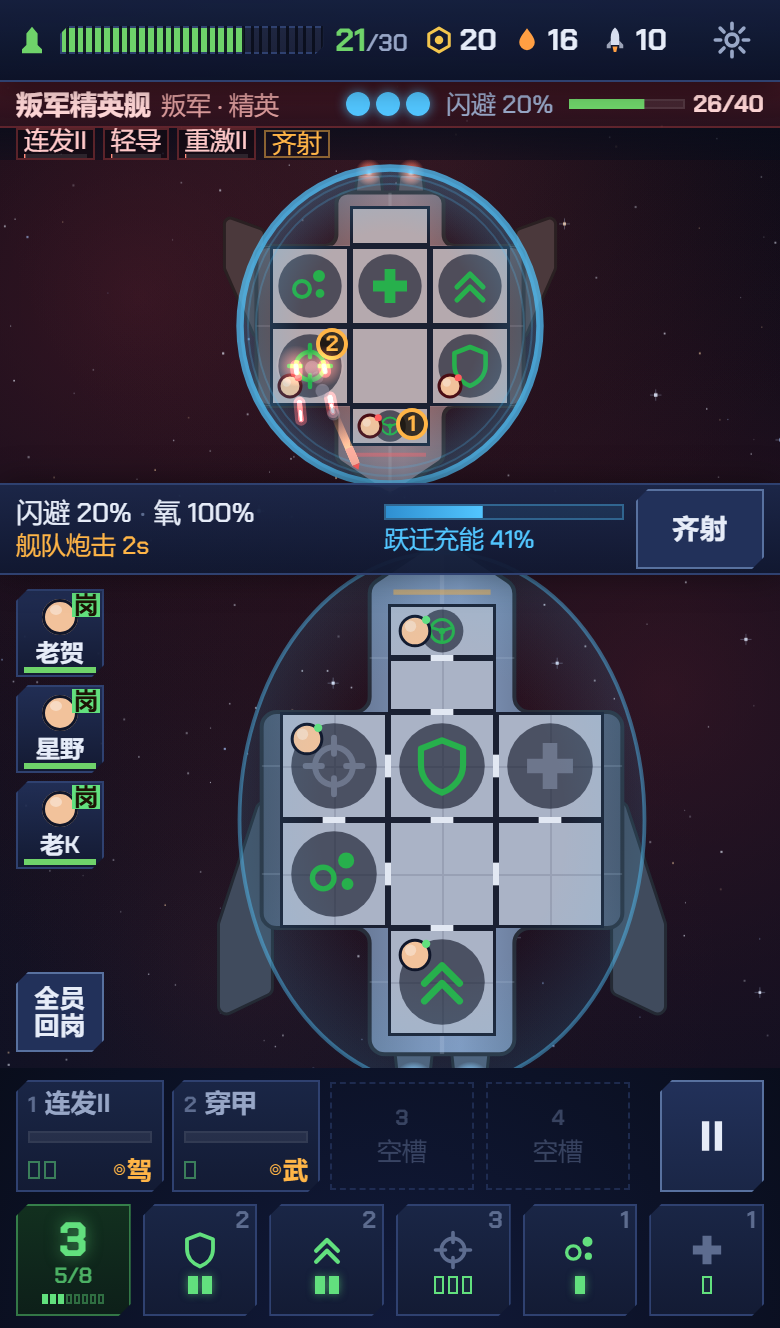
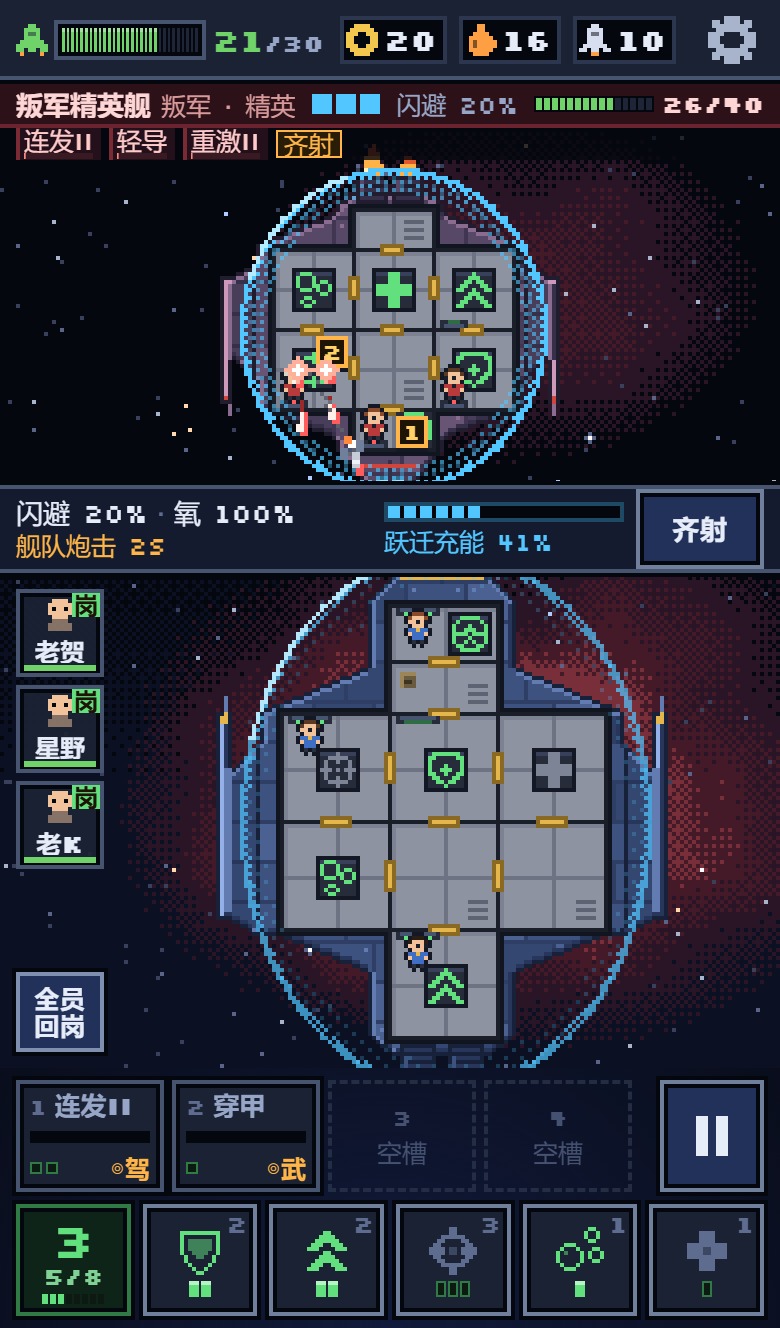
docs: 重新渲染像素风封面（16:9）与游戏截图
- tools/cover.html 改用游戏自身的像素渲染器绘制 1920x1080 封面
- 截图工具关闭新手提示、改用 Silkscreen 字体
- 删除旧版插画封面 cover.png / cover-art.png

diff --git a/tools/cover.html b/tools/cover.html
@@ -4,163 +4,179 @@
 <meta charset="utf-8">
 <link rel="preconnect" href="https://fonts.googleapis.com">
 <link rel="preconnect" href="https://fonts.gstatic.com" crossorigin>
-<link rel="stylesheet" href="https://fonts.googleapis.com/css2?family=Chakra+Petch:wght@500;600;700&family=ZCOOL+QingKe+HuangYou&display=swap">
+<link rel="stylesheet" href="https://fonts.googleapis.com/css2?family=Silkscreen:wght@400;700&family=ZCOOL+QingKe+HuangYou&display=swap">
 <style>
-  :root {
-    --bg: #090d1b;
-    --accent: #ffb547;
-    --shield: #52c6ff;
-    --text-dim: #97a6c6;
-    --font-ui: 'Chakra Petch', 'PingFang SC', 'Microsoft YaHei', system-ui, sans-serif;
-    --font-title: 'ZCOOL QingKe HuangYou', 'Chakra Petch', 'Microsoft YaHei', sans-serif;
-  }
+  /* Dev-only 16:9 cover (1920x1080), drawn with the game's own pixel renderer.
+     Screenshot (serve the project first: node serve.mjs):
+       chrome --headless=new --window-size=1920,1080 --hide-scrollbars --virtual-time-budget=8000 \
+              --screenshot=assets/banner.png "http://localhost:5173/tools/cover.html" */
   * { margin: 0; padding: 0; box-sizing: border-box; }
-  html, body { background: #000; }
-  body { display: flex; font-family: var(--font-ui); -webkit-font-smoothing: antialiased; }
-
-  .poster {
-    position: relative; width: 1024px; height: 1536px; overflow: hidden;
-    background: var(--bg); isolation: isolate;
+  html, body { width: 1920px; height: 1080px; overflow: hidden; background: #05070e; }
+  #stage { position: relative; width: 1920px; height: 1080px; overflow: hidden; }
+  canvas#bg { position: absolute; inset: 0; width: 1920px; height: 1080px; image-rendering: pixelated; }
+  .plate {
+    position: absolute; left: 50%; top: 56px; transform: translateX(-50%);
+    padding: 26px 64px 30px; text-align: center;
+    background: #0b1022;
+    box-shadow: 0 0 0 4px #05070e, inset 0 0 0 4px #7f8fb0, inset 0 0 0 8px #05070e, 0 12px 0 0 #05070e;
   }
-  .art { position: absolute; inset: 0; width: 100%; height: 100%; object-fit: cover; }
-  .scrim-top {
-    position: absolute; inset: 0;
-    background: linear-gradient(180deg,
-      rgba(9,13,27,0.94) 0%, rgba(9,13,27,0.86) 20%, rgba(9,13,27,0.68) 32%,
-      rgba(9,13,27,0.40) 42%, rgba(9,13,27,0) 54%);
-  }
-  .scrim-bot {
-    position: absolute; inset: 0;
-    background: linear-gradient(0deg,
-      rgba(6,9,20,0.97) 0%, rgba(6,9,20,0.90) 12%, rgba(6,9,20,0.42) 24%, rgba(6,9,20,0) 34%);
-  }
-  .vignette {
-    position: absolute; inset: 0;
-    background: radial-gradient(120% 78% at 50% 46%, transparent 42%, rgba(4,7,16,0.55) 100%);
-  }
-  .frame {
-    position: absolute; inset: 26px; border: 1px solid rgba(255,181,71,0.22); pointer-events: none;
-  }
-  .frame::before, .frame::after {
-    content: ''; position: absolute; width: 92px; height: 3px; background: var(--accent);
-    box-shadow: 0 0 14px rgba(255,181,71,0.75);
-  }
-  .frame::before { top: -2px; left: -2px; }
-  .frame::after { bottom: -2px; right: -2px; }
-
-  .layer { position: absolute; inset: 0; display: flex; flex-direction: column; justify-content: space-between; }
-
-  /* ---------- head ---------- */
-  .head { padding: 92px 72px 0; text-align: center; }
   .kicker {
-    font-size: 26px; font-weight: 600; letter-spacing: 0.46em; color: #8fb4ff;
-    text-shadow: 0 0 22px rgba(127,167,255,0.65); margin-right: -0.46em;
+    font: 700 22px 'Silkscreen', monospace; letter-spacing: 0.42em; color: #9fb4de;
+    margin-bottom: 6px;
   }
-  .name {
-    margin-top: 34px; font-family: var(--font-title); font-weight: 400;
-    font-size: 182px; line-height: 1; letter-spacing: 0.05em; margin-right: -0.05em;
-    background: linear-gradient(180deg, #ffffff 0%, #ffe9c4 48%, #ffb547 100%);
-    -webkit-background-clip: text; background-clip: text; -webkit-text-fill-color: transparent;
-    filter: drop-shadow(0 0 34px rgba(255,181,71,0.45)) drop-shadow(0 6px 2px rgba(0,0,0,0.55));
+  .title {
+    font: 400 132px/1.05 'ZCOOL QingKe HuangYou', 'Microsoft YaHei', sans-serif; letter-spacing: 0.08em;
+    color: #ffd08a;
+    text-shadow: 0 4px 0 #c9832a, 0 8px 0 #7a4512, 0 12px 0 #05070e;
   }
-  .warp { position: relative; width: 560px; height: 3px; margin: 34px auto 0;
-    background: linear-gradient(90deg, transparent, rgba(82,198,255,0.95), transparent); }
-  .warp::after { content: ''; position: absolute; top: -2px; left: 34%; width: 170px; height: 7px;
-    background: linear-gradient(90deg, transparent, #fff, transparent);
-    box-shadow: 0 0 22px rgba(82,198,255,1), 0 0 46px rgba(82,198,255,0.65); }
+  .rail { height: 8px; margin: 16px auto 0; width: 86%;
+    background: repeating-linear-gradient(90deg, #52c6ff 0 12px, transparent 12px 20px); }
+  .corner { position: absolute; width: 36px; height: 36px; border: 0 solid #ffb547; }
+  .c1 { left: -22px; top: -22px; border-left-width: 8px; border-top-width: 8px; }
+  .c2 { right: -22px; top: -22px; border-right-width: 8px; border-top-width: 8px; }
+  .c3 { left: -22px; bottom: -22px; border-left-width: 8px; border-bottom-width: 8px; }
+  .c4 { right: -22px; bottom: -22px; border-right-width: 8px; border-bottom-width: 8px; }
   .tag {
-    display: inline-block; margin: 32px auto 0; padding: 16px 34px; max-width: 820px;
-    font-size: 30px; font-weight: 500; line-height: 1.5; letter-spacing: 0.02em;
-    color: #d5dff2; background: rgba(9,13,27,0.58);
-    box-shadow: inset 0 0 0 1px rgba(88,113,159,0.45);
-    text-shadow: 0 2px 12px rgba(0,0,0,0.95);
-    clip-path: polygon(14px 0, 100% 0, 100% calc(100% - 14px), calc(100% - 14px) 100%, 0 100%, 0 14px);
+    position: absolute; left: 50%; bottom: 58px; transform: translateX(-50%);
+    font: 700 34px 'Microsoft YaHei', 'PingFang SC', sans-serif; color: #dfe7f7; letter-spacing: 0.12em;
+    padding: 12px 36px; background: #0b1022;
+    box-shadow: 0 0 0 4px #05070e, inset 0 0 0 4px #46546f, 0 8px 0 0 #05070e; white-space: nowrap;
   }
-
-  /* ---------- foot ---------- */
-  .foot {
-    padding: 34px 72px 46px;
-    background: linear-gradient(180deg,
-      rgba(6,9,20,0) 0%, rgba(6,9,20,0.72) 26%, rgba(6,9,20,0.94) 62%, rgba(6,9,20,0.98) 100%);
-  }
-  .chips { display: flex; justify-content: center; gap: 14px; margin-bottom: 24px; }
-  .chip {
-    display: inline-flex; align-items: center; gap: 10px;
-    padding: 13px 22px; font-size: 24px; font-weight: 600; color: #dbe4f7;
-    background: rgba(19,27,52,0.78); box-shadow: inset 0 0 0 1px rgba(88,113,159,0.55);
-    clip-path: polygon(10px 0, 100% 0, 100% calc(100% - 10px), calc(100% - 10px) 100%, 0 100%, 0 10px);
-  }
-  .chip i { font-style: normal; color: var(--accent); font-size: 22px; }
-  .bar {
-    display: flex; align-items: center; justify-content: space-between;
-    padding-top: 22px; border-top: 1px solid rgba(47,65,112,0.85);
-    font-size: 23px; color: var(--text-dim); letter-spacing: 0.02em;
-  }
-  .bar b { color: #e6ecf8; font-weight: 600; }
-  .dot { color: var(--shield); }
-
-  /* ================= landscape banner (1280x640) ================= */
-  body.banner .poster { width: 1280px; height: 640px; }
-  body.banner .art { object-position: 50% 42%; }
-  body.banner .scrim-top {
-    background: linear-gradient(100deg,
-      rgba(9,13,27,0.94) 0%, rgba(9,13,27,0.88) 34%, rgba(9,13,27,0.42) 58%, rgba(9,13,27,0.05) 78%);
-  }
-  body.banner .scrim-bot { background: linear-gradient(0deg, rgba(6,9,20,0.72) 0%, transparent 26%); }
-  body.banner .vignette { background: radial-gradient(120% 120% at 30% 50%, transparent 40%, rgba(4,7,16,0.5) 100%); }
-  body.banner .frame { inset: 18px; }
-  body.banner .layer { flex-direction: row; align-items: flex-end; justify-content: flex-start; }
-  body.banner .head { padding: 0 0 74px 72px; text-align: left; width: 720px; }
-  body.banner .kicker { font-size: 19px; }
-  body.banner .name { font-size: 128px; margin-top: 20px; }
-  body.banner .warp { width: 420px; margin: 26px 0 0; }
-  body.banner .tag { margin: 24px 0 0; max-width: 620px; font-size: 24px; }
-  body.banner .foot { display: none; }
-  body.banner .corner { position: absolute; right: 78px; bottom: 74px; text-align: right; }
-  body.banner .corner .chips { flex-direction: column; align-items: flex-end; gap: 12px; margin: 0; }
-  body.banner .corner .chip { font-size: 19px; padding: 10px 18px; gap: 8px; }
-  body.banner .corner .chip i { font-size: 17px; }
-  body.banner .corner small { display: block; margin-top: 20px; font-size: 18px; color: #b9c6e0; letter-spacing: 0.02em; text-shadow: 0 2px 12px rgba(0,0,0,1), 0 0 6px rgba(0,0,0,0.9); }
-  .corner { display: none; }
-  body.banner .corner { display: block; }
+  .tag b { color: #ffb547; font-weight: 700; }
 </style>
 </head>
 <body>
-<div class="poster">
-  <img class="art" src="/assets/cover-art.png" alt="">
-  <div class="scrim-top"></div>
-  <div class="scrim-bot"></div>
-  <div class="vignette"></div>
-  <div class="frame"></div>
-  <div class="layer">
-    <div class="head">
-      <div class="kicker">LIGHTSPEED &middot; ESCAPE</div>
-      <div class="name">光速逃亡</div>
-      <div class="warp"></div>
-      <div class="tag">带着情报穿越五个星区，甩开身后的叛军舰队</div>
-    </div>
-    <div class="corner">
-      <div class="chips">
-        <span class="chip"><i>&#9670;</i>竖屏单手操作</span>
-        <span class="chip"><i>&#9670;</i>实时战斗 · 随时暂停</span>
-      </div>
-      <small>v0.1.0 &nbsp;·&nbsp; 5 星区 · 60+ 随机事件</small>
-    </div>
-    <div class="foot">
-      <div class="chips">
-        <span class="chip"><i>&#9670;</i>竖屏单手操作</span>
-        <span class="chip"><i>&#9670;</i>实时战斗 · 随时暂停</span>
-        <span class="chip"><i>&#9670;</i>一局 20&ndash;30 分钟</span>
-      </div>
-      <div class="bar">
-        <span><b>5</b> 个星区 <span class="dot">&middot;</span> <b>60+</b> 随机事件 <span class="dot">&middot;</span> <b>2</b> 艘舰船 <span class="dot">&middot;</span> <b>3</b> 档难度</span>
-        <span>v0.1.0</span>
-      </div>
-    </div>
+<div id="stage">
+  <canvas id="bg" width="1920" height="1080"></canvas>
+  <div class="plate">
+    <i class="corner c1"></i><i class="corner c2"></i><i class="corner c3"></i><i class="corner c4"></i>
+    <div class="kicker">LIGHTSPEED · ESCAPE</div>
+    <div class="title">光速逃亡</div>
+    <div class="rail"></div>
   </div>
+  <div class="tag">竖屏 · 实时暂停 · 五个星区 · <b>甩开叛军舰队</b></div>
 </div>
+<script src="/src/core/ns.js"></script>
+<script src="/src/core/rng.js"></script>
+<script src="/src/core/util.js"></script>
+<script src="/src/data/rules.js"></script>
+<script src="/src/data/systems.js"></script>
+<script src="/src/data/weapons.js"></script>
+<script src="/src/data/crew.js"></script>
+<script src="/src/data/ships.js"></script>
+<script src="/src/data/enemies.js"></script>
+<script src="/src/sim/ship.js"></script>
+<script src="/src/ui/dom.js"></script>
+<script src="/src/ui/render.js"></script>
 <script>
-  if (new URLSearchParams(location.search).has('banner')) document.body.classList.add('banner');
+(function () {
+  var G = window.G;
+  var W = 1920, H = 1080, A = 4;          // A = CSS px per art pixel for the backdrop and effects
+  var cv = document.getElementById('bg'), ctx = cv.getContext('2d');
+  ctx.imageSmoothingEnabled = false;
+
+  // deterministic RNG so the cover is reproducible
+  var seed = 20260928;
+  function rnd() { seed = (seed * 1664525 + 1013904223) >>> 0; return seed / 4294967296; }
+
+  // ---- backdrop: dithered nebula + 3-tone starfield at art resolution ----
+  var bw = W / A, bh = H / A;
+  var bg = document.createElement('canvas'); bg.width = bw; bg.height = bh;
+  var b = bg.getContext('2d');
+  b.fillStyle = '#05070e'; b.fillRect(0, 0, bw, bh);
+  var blobs = [
+    { x: bw * 0.22, y: bh * 0.62, r: bh * 0.55, c: ['#0b1432', '#12204a', '#1a2c63'] },
+    { x: bw * 0.80, y: bh * 0.40, r: bh * 0.50, c: ['#170b24', '#2a1234', '#3b1830'] },
+  ];
+  for (var y = 0; y < bh; y++) for (var x = 0; x < bw; x++) {
+    blobs.forEach(function (o) {
+      // wobbly edge: sum of low-frequency sines so the bands are not perfect ellipses
+      var n = 0.10 * Math.sin(x * 0.07 + y * 0.03) + 0.07 * Math.sin(y * 0.11 - x * 0.05 + 1.7) + 0.05 * Math.sin((x + y) * 0.19);
+      var d = Math.hypot(x - o.x, (y - o.y) * 1.3) / o.r + n;
+      var lvl = d < 0.45 ? 2 : d < 0.7 ? 1 : d < 0.95 ? 0 : -1;
+      // checkerboard dither at band edges
+      if (lvl >= 0 && ((d > 0.4 && d < 0.5) || (d > 0.65 && d < 0.75) || d > 0.9) && (x + y) % 2) lvl--;
+      if (lvl >= 0) { b.fillStyle = o.c[lvl]; b.fillRect(x, y, 1, 1); }
+    });
+  }
+  var TONES = ['#34406a', '#7d8bb3', '#e6ecf8'];
+  for (var i = 0; i < 520; i++) {
+    b.fillStyle = TONES[rnd() < 0.6 ? 0 : rnd() < 0.7 ? 1 : 2];
+    b.fillRect(Math.floor(rnd() * bw), Math.floor(rnd() * bh), 1, 1);
+  }
+  for (i = 0; i < 14; i++) {              // a few plus-shaped bright stars
+    var sx = Math.floor(rnd() * bw), sy = Math.floor(rnd() * bh);
+    b.fillStyle = '#e6ecf8'; b.fillRect(sx, sy - 1, 1, 3); b.fillRect(sx - 1, sy, 3, 1);
+  }
+  ctx.drawImage(bg, 0, 0, W, H);
+
+  // ---- ships: rendered by G.Render.miniShip, then rotated so they face each other (FTL style) ----
+  function shipCanvas(id, flip, w, h) {
+    var c = document.createElement('canvas');
+    c.style.width = w + 'px'; c.style.height = h + 'px';
+    G.Render.miniShip(c, id, { width: w, height: h, pad: 0.6, flip: flip });
+    return c;
+  }
+  function place(c, cx, cy, rot, scale) {
+    ctx.save();
+    ctx.translate(Math.round(cx), Math.round(cy));
+    ctx.rotate(rot);
+    var w = c.width * scale, h = c.height * scale;
+    ctx.drawImage(c, -Math.round(w / 2), -Math.round(h / 2), w, h);
+    ctx.restore();
+  }
+  // miniShip draws at devicePixelRatio; normalise to CSS px before scaling
+  var dpr = Math.min(2, window.devicePixelRatio || 1);
+  var player = shipCanvas('falcon', false, 150, 200);
+  var enemy = shipCanvas('cruiser', true, 130, 150);
+
+  // shield bubble (dithered ring) around the enemy, drawn at art resolution
+  function ring(cx, cy, rx, ry, col) {
+    ctx.fillStyle = col;
+    for (var t = 0; t < 720; t++) {
+      var a = t / 720 * Math.PI * 2;
+      var px = Math.round((cx + Math.cos(a) * rx) / A), py = Math.round((cy + Math.sin(a) * ry) / A);
+      if ((px + py) % 2 === 0) ctx.fillRect(px * A, py * A, A, A);
+    }
+  }
+  var EX = 1440, EY = 600, PX = 470, PY = 620;
+  place(player, PX, PY, Math.PI / 2, 3 / dpr);   // nose to the right
+  place(enemy, EX, EY, Math.PI / 2, 3 / dpr);    // flipped template: nose to the left
+  ring(EX, EY, 300, 280, '#52c6ff');
+  ring(EX, EY, 314, 294, '#2a6f97');
+
+  // ---- lasers: green pixel bolts with trails, one absorbed by the shield, one hitting ----
+  function bolt(x0, y0, x1, y1, len, core, trail) {
+    var n = Math.max(1, Math.round(Math.hypot(x1 - x0, y1 - y0) / A));
+    for (var k = 0; k < len; k++) {
+      var t = 1 - k / n;
+      var px = Math.round((x0 + (x1 - x0) * t) / A) * A, py = Math.round((y0 + (y1 - y0) * t) / A) * A;
+      ctx.fillStyle = k < 3 ? core : trail;
+      ctx.fillRect(px, py, A, A * (k < 3 ? 2 : 1));
+    }
+  }
+  bolt(PX + 330, PY - 50, 1110, 500, 22, '#eaffea', '#62e07e');
+  bolt(PX + 330, PY - 50, 960, 560, 22, '#eaffea', '#62e07e');
+  bolt(PX + 330, PY + 40, 1150, 640, 18, '#eaffea', '#62e07e');
+  // enemy red shot heading back
+  bolt(EX - 330, EY + 60, 900, 700, 20, '#ffe4e4', '#ff5d5d');
+
+  // shield hit ripple where a bolt met the bubble
+  function burst(cx, cy, r, cols) {
+    for (var yy = -r; yy <= r; yy++) for (var xx = -r; xx <= r; xx++) {
+      var d = Math.hypot(xx, yy) / r; if (d > 1 || rnd() < d * 0.55) continue;
+      ctx.fillStyle = cols[Math.min(cols.length - 1, Math.floor(d * cols.length))];
+      ctx.fillRect(Math.round(cx / A + xx) * A, Math.round(cy / A + yy) * A, A, A);
+    }
+  }
+  burst(1146, 520, 7, ['#ffffff', '#b8ecff', '#52c6ff']);
+  // explosion on the enemy hull
+  burst(1330, 660, 9, ['#ffffff', '#ffe08a', '#ff8a3d', '#c2410c', '#3a2a2a']);
+  for (i = 0; i < 26; i++) {               // debris pixels
+    ctx.fillStyle = rnd() < 0.5 ? '#ffb547' : '#6f7f9c';
+    ctx.fillRect(Math.round((1330 + (rnd() - 0.5) * 150) / A) * A, Math.round((660 + (rnd() - 0.5) * 130) / A) * A, A, A);
+  }
+})();
 </script>
 </body>
 </html>

diff --git a/tools/screenshot.html b/tools/screenshot.html
@@ -3,7 +3,7 @@
 <head>
 <meta charset="utf-8">
 <meta name="viewport" content="width=device-width,initial-scale=1,maximum-scale=1,user-scalable=no,viewport-fit=cover">
-<link rel="stylesheet" href="https://fonts.googleapis.com/css2?family=Chakra+Petch:wght@500;600;700&family=ZCOOL+QingKe+HuangYou&display=swap">
+<link rel="stylesheet" href="https://fonts.googleapis.com/css2?family=Silkscreen:wght@400;700&family=ZCOOL+QingKe+HuangYou&display=swap">
 <link rel="stylesheet" href="/src/css/base.css">
 <link rel="stylesheet" href="/src/css/view.css">
 <link rel="stylesheet" href="/src/css/screens.css">
@@ -86,6 +86,8 @@
     G.App.paused = true;
     G.View.frame = function () {};   // keep the last painted canvas on screen
     G.UI.update = function () {};
+    if (G.Tips) G.Tips.reset();
+    if (G.UI.isOpen('tip')) G.UI.close('tip');
     var tips = document.querySelectorAll('.tip');
     for (var i = 0; i < tips.length; i++) tips[i].remove();
     // coach bubbles are non-modal overlays: drop everything when the shot wants no panel
@@ -125,6 +127,9 @@
     G.Save.save = function () { return true; };
     G.Save.saveMeta = function () {};
     G.Audio.setEnabled(false);
+    // main.js already loaded settings before this harness runs: switch coach tips off on the live object too
+    if (G.App.settings) G.App.settings.tips = false;
+    if (G.Tips) G.Tips.reset();
 
     if (scene === 'title') { G.App.quitToTitle(true); return setTimeout(function () { freeze(true); }, freezeAfter); }
 

diff --git a/README.md b/README.md
@@ -84,7 +84,7 @@ src/ui/                     dom / input / render / view / audio / screens/*
 src/main.js                 应用胶水：定步长主循环、界面路由、自动存档
 
 tests/                      node:test 单元测试 + tests/bot.mjs 无头自动对局
-tools/                      开发辅助页（截图、封面合成），不参与构建
+tools/                      开发辅助页（截图、封面渲染），不参与构建
 assets/                     封面、横幅、截图
 dist/                       构建产物（已提交，可直接分发）
 ```
